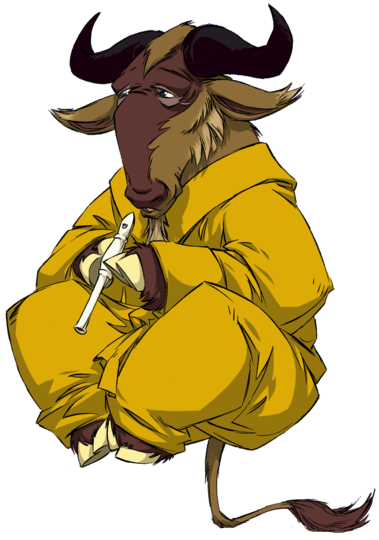
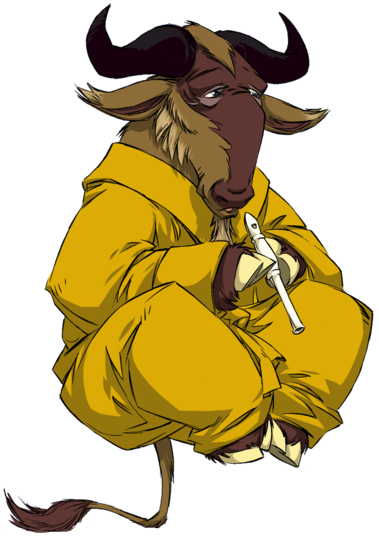
gnu on left, auto[F]ocus on input box - camelcase, duh!

diff --git a/react_components/blockDescription.js b/react_components/blockDescription.js
@@ -9,8 +9,12 @@ var textareaStyle = {
 var divStyle = {
 	display: 'inline',
 }
+var focus = false;
 
 module.exports = React.createClass({
+	// componentDidMount: function() {
+	// 	focus = true;
+	// },
 	// getInitalState: function() {
 	// 	return {input: "kkljsdf"};
 	// },
@@ -26,7 +30,7 @@ module.exports = React.createClass({
 						// value={input} 
 						// onChange={this.handleKeyUp} 
 						style={textareaStyle} 
-						autofocus>
+						autoFocus>
 					</Textarea>
 				</div>
 			)

diff --git a/react_components/gnuMessage.js b/react_components/gnuMessage.js
@@ -5,8 +5,8 @@ var pStyle = {
 	marginTop: '-28%',
 	fontWeight: '600',
 	width: '43%',
-  left: '11%',
-  textAlign: 'right',
+  left: '46%',
+  textAlign: 'left',
   padding: '0 .4em',
   color: '#222',
   fontFamily: 'monospace',

diff --git a/react_components/app.js b/react_components/app.js
@@ -10,8 +10,8 @@ module.exports = React.createClass({
 	render: function () {
 		return (
 			<div style={divStyle}>
-				<BlockDescription />
 				<Gnu />
+				<BlockDescription />
 				<GnuMessage />
 			</div>
 		)
